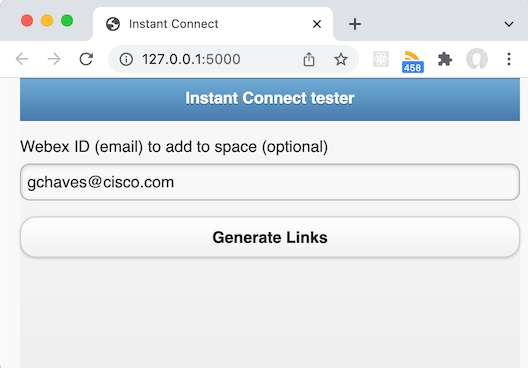
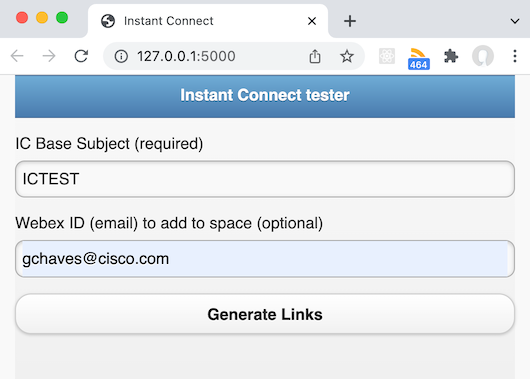
Baselined from internal Repository last_commit:702f613964c5b9bc214ae9f911b9e3269aa82523

diff --git a/templates/consult.html b/templates/consult.html
@@ -19,10 +19,15 @@ or implied.
 <meta name="viewport" content="width=device-width, initial-scale=1"> 
 <meta http-equiv="Content-Type" content="text/html; charset=utf-8">
 <meta http-equiv="expires" content="0">
-<link rel="stylesheet" href="//code.jquery.com/mobile/1.3.1/jquery.mobile-1.3.1.min.css" />
-<script src="//code.jquery.com/jquery-1.7.2.min.js"></script>
+  <link rel="stylesheet" href="//code.jquery.com/mobile/1.3.1/jquery.mobile-1.3.1.min.css" />
+  <script src="//code.jquery.com/jquery-1.7.2.min.js"></script>
 <script src="//code.jquery.com/mobile/1.3.1/jquery.mobile-1.3.1.min.js"></script>
-
+  <script>
+  // call when the form is fully loaded to validate if we activate the submit button
+  $(function() {
+    btnActivation();
+  });
+  </script>
 
 </head>
 <body>
@@ -33,11 +38,23 @@ or implied.
       <h1>Instant Connect tester</h1>
     </div>
 
-    <form action = "/teleconsultCreate" method = "POST">
-     <p>Webex ID (email) to add to space (optional) <input type = "text" name = "WebexID" /></p>
-     <p><input type = "submit" value = "Generate Links" /></p>
+    <form name="inputForm"  action = "/teleconsultCreate" method = "POST">
+      <p>IC Base Subject (required) <input id="baseSub" type = "text" name = "ICBaseSubject" value="{{theBase}}" onkeyup="btnActivation()" required/></p>
+     <p>Webex ID (email) to add to space (optional) <input type = "text" name = "WebexID"  /></p>
+     <p><input type = "submit" value = "Generate Links" id="submit_button"  /></p>
     </form>
+    <script type="text/javascript">
+        function btnActivation(){
+            if(!document.getElementById('baseSub').value.length){
+                $('#submit_button').button('disable');
+            }else{
+                $('#submit_button').button('enable');
+            }
+        }
 
-  </div>	
+    </script>
+  </div>
+
 </body>
 </html>
+

diff --git a/app.py b/app.py
@@ -35,7 +35,6 @@ def teleconsultCreate():
         IC_AUDIENCE = os.environ.get("IC_AUDIENCE")
         IC_ACCESS_TOKEN = os.environ.get("IC_ACCESS_TOKEN")
         IC_URL_DURATION = os.environ.get("IC_URL_DURATION")
-        IC_BASE_SUBJECT = os.environ.get("IC_BASE_SUBJECT")
         IC_AGENT_BASEURL = os.environ.get("IC_AGENT_BASEURL")
         IC_CLIENT_BASEURL = os.environ.get("IC_CLIENT_BASEURL")
         IC_HOST_BASEURL = os.environ.get("IC_HOST_BASEURL")
@@ -46,13 +45,14 @@ def teleconsultCreate():
         print(resultDict)
 
         theWebexID=resultDict['WebexID']
+        confirmedBaseSubject=resultDict['ICBaseSubject']
 
         url = IC_API_URL
 
         payload = json.dumps({
             "aud": IC_AUDIENCE,
             "jwt": {
-                "sub": IC_BASE_SUBJECT, #using same subject will return same consultation always!,
+                "sub": confirmedBaseSubject, #using same subject will return same consultation always!,
                 "exp": int(time.time())  + int(IC_URL_DURATION)
             }
         })
@@ -106,7 +106,8 @@ def teleconsultCreate():
 ##Routes
 @app.route('/')
 def index():
-    return render_template('consult.html')
+    IC_BASE_SUBJECT = os.environ.get("IC_BASE_SUBJECT")
+    return render_template('consult.html',theBase=IC_BASE_SUBJECT)
 
 if __name__ == "__main__":
     app.run(port=5000,debug=True)

diff --git a/README.md b/README.md
@@ -44,7 +44,8 @@ Run app.py:
 
 ```python3 app.py```  
 
-Browse to the URL where the flask aplication is running (i.e. http://127.0.0.1:5000/ ) . You will be presented with a page where you can click on "Generate Links" to get started. 
+Browse to the URL where the flask aplication is running (i.e. http://127.0.0.1:5000/ ) . You will be presented with a page where you can edit the base subject to be used 
+(originally populated from the .env file) and then click on "Generate Links" to get started. The base subject cannot be blank.   
 If you wish to add a Webex user to the temporary space so they can join the session with their personal device, specify their Webex ID in the text field before clicking on Generate Links
 
 
